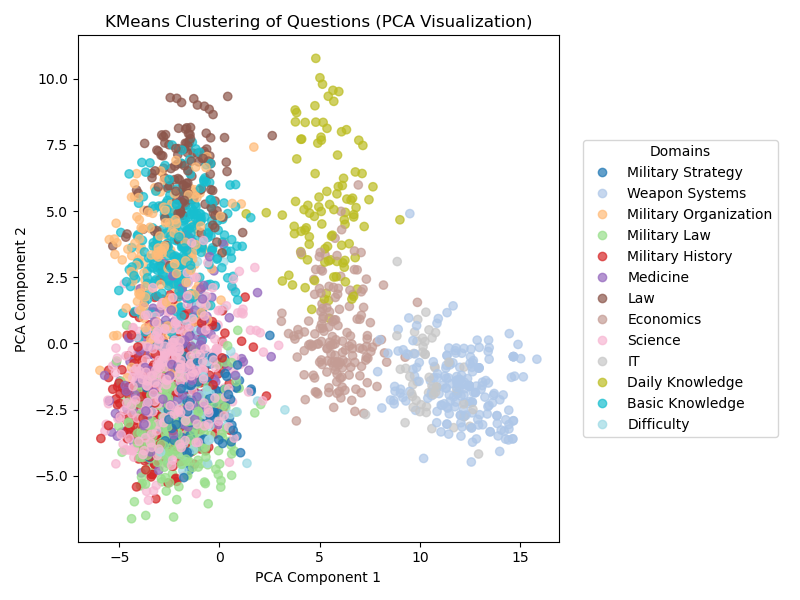
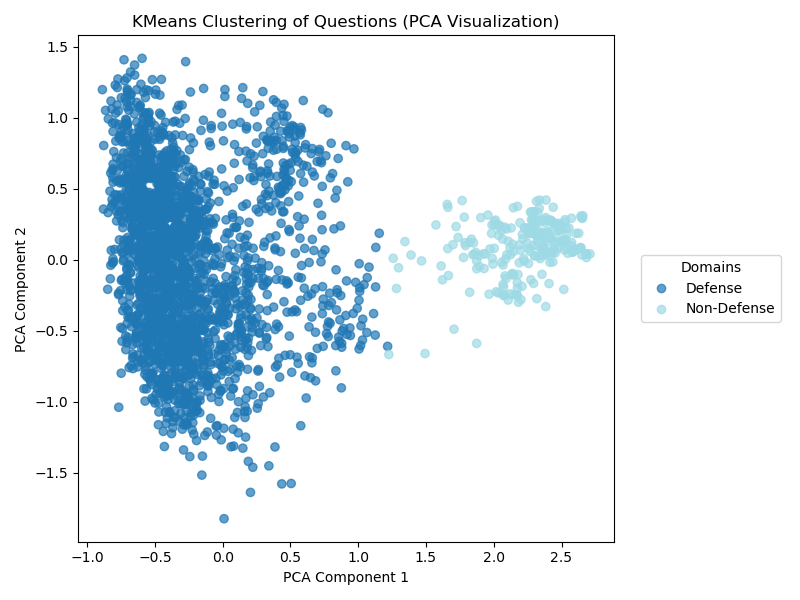
kmeans_clustering(method A)

diff --git a/qa.py b/qa.py
@@ -6,12 +6,19 @@ import matplotlib.pyplot as plt
 from transformers import AutoTokenizer, AutoModel
 import torch
 import numpy as np
+from sentence_transformers import SentenceTransformer
 
-dataset_dir = './dataset/QA'
+
+dataset_dir = '../dataset/QA'
+# domain_labels = [
+#     "Military Strategy", "Weapon Systems", "Military Organization", "Military Law", "Military History",  # Defense Domain, 
+#     "Medicine", "Law", "Economics", "Science", "IT",                                              # Non-Defense Domain
+#     "Daily Knowledge", "Basic Knowledge", "Difficulty"      # Noise Data
+# ]
 domain_labels = [
-    "Military Strategy", "Weapon Systems", "Military Organization", "Military Law", "Military History",  # Defense Domain
-    "Medicine", "Law", "Economics", "Science", "IT",                                              # Non-Defense Domain
-    "Daily Knowledge", "Basic Knowledge", "Difficulty"      # Noise Data
+    "Defense",  # Defense Domain, 
+    "Non-Defense" # Non-Defense Domain
+    #"Noise"      # Noise Data
 ]
 num_clusters = len(domain_labels)
 
@@ -57,15 +64,19 @@ def representative_questions(sentence_embeddings, labels, num_clusters, all_ques
         cluster_indices = [i for i, label in enumerate(labels) if label == cluster_id]
         if cluster_indices: 
             cluster_distances = [(idx, dist) for idx, dist in distances if idx in cluster_indices]
-            representative_idx = min(cluster_distances, key=lambda x: x[1])[0]
-            representative_questions[cluster_id] = all_questions[representative_idx]
+            representative_idx = sorted(cluster_distances, key=lambda x: x[1])[:20]
+            representative_questions[cluster_id] = [all_questions[idx] for idx, _ in representative_idx]
+   
+    unique, counts = np.unique(labels, return_counts=True)
+    cluster_counts = dict(zip(unique, counts))
 
     for cluster_id, question in representative_questions.items():
-        print(f"[Cluster {cluster_id} - {cluster_to_domain[cluster_id]}] Representative Question: {question}")
+        count = cluster_counts.get(cluster_id, 0)
+        print(f"[Cluster {cluster_id} - {cluster_to_domain[cluster_id]}] Representative Question: {question} | Number of questions: {count}")
 
 def main():
-    tokenizer = AutoTokenizer.from_pretrained('snunlp/KR-SBERT-V40K-klueNLI-augSTS')
-    model = AutoModel.from_pretrained('snunlp/KR-SBERT-V40K-klueNLI-augSTS')
+    tokenizer = AutoTokenizer.from_pretrained('sentence-transformers/paraphrase-multilingual-MiniLM-L12-v2')
+    model = AutoModel.from_pretrained('sentence-transformers/paraphrase-multilingual-MiniLM-L12-v2')
 
     all_questions = []
     for fname in os.listdir(dataset_dir):
@@ -73,6 +84,9 @@ def main():
             df = pd.read_csv(os.path.join(dataset_dir, fname))
             if 'input' in df.columns:
                 all_questions.extend(df['input'].dropna().tolist())
+    
+    # 군사 데이터 제외
+    # all_questions = all_questions[2000:]
 
     # Tokenize sentences
     encoded_input = tokenizer(all_questions, padding=True, truncation=True, return_tensors='pt')
@@ -86,9 +100,6 @@ def main():
     labels = kmeans.fit_predict(sentence_embeddings)
 
     cluster_to_domain = {i: domain_labels[i] for i in range(num_clusters)}
-
-    # for _, (question, label) in enumerate(zip(all_questions, labels)):
-    #     print(f"[Cluster {label}] {question}")
 
     visualize_clusters(sentence_embeddings, labels, num_clusters, cluster_to_domain)
     representative_questions(sentence_embeddings, labels, num_clusters, all_questions, cluster_to_domain, kmeans)
